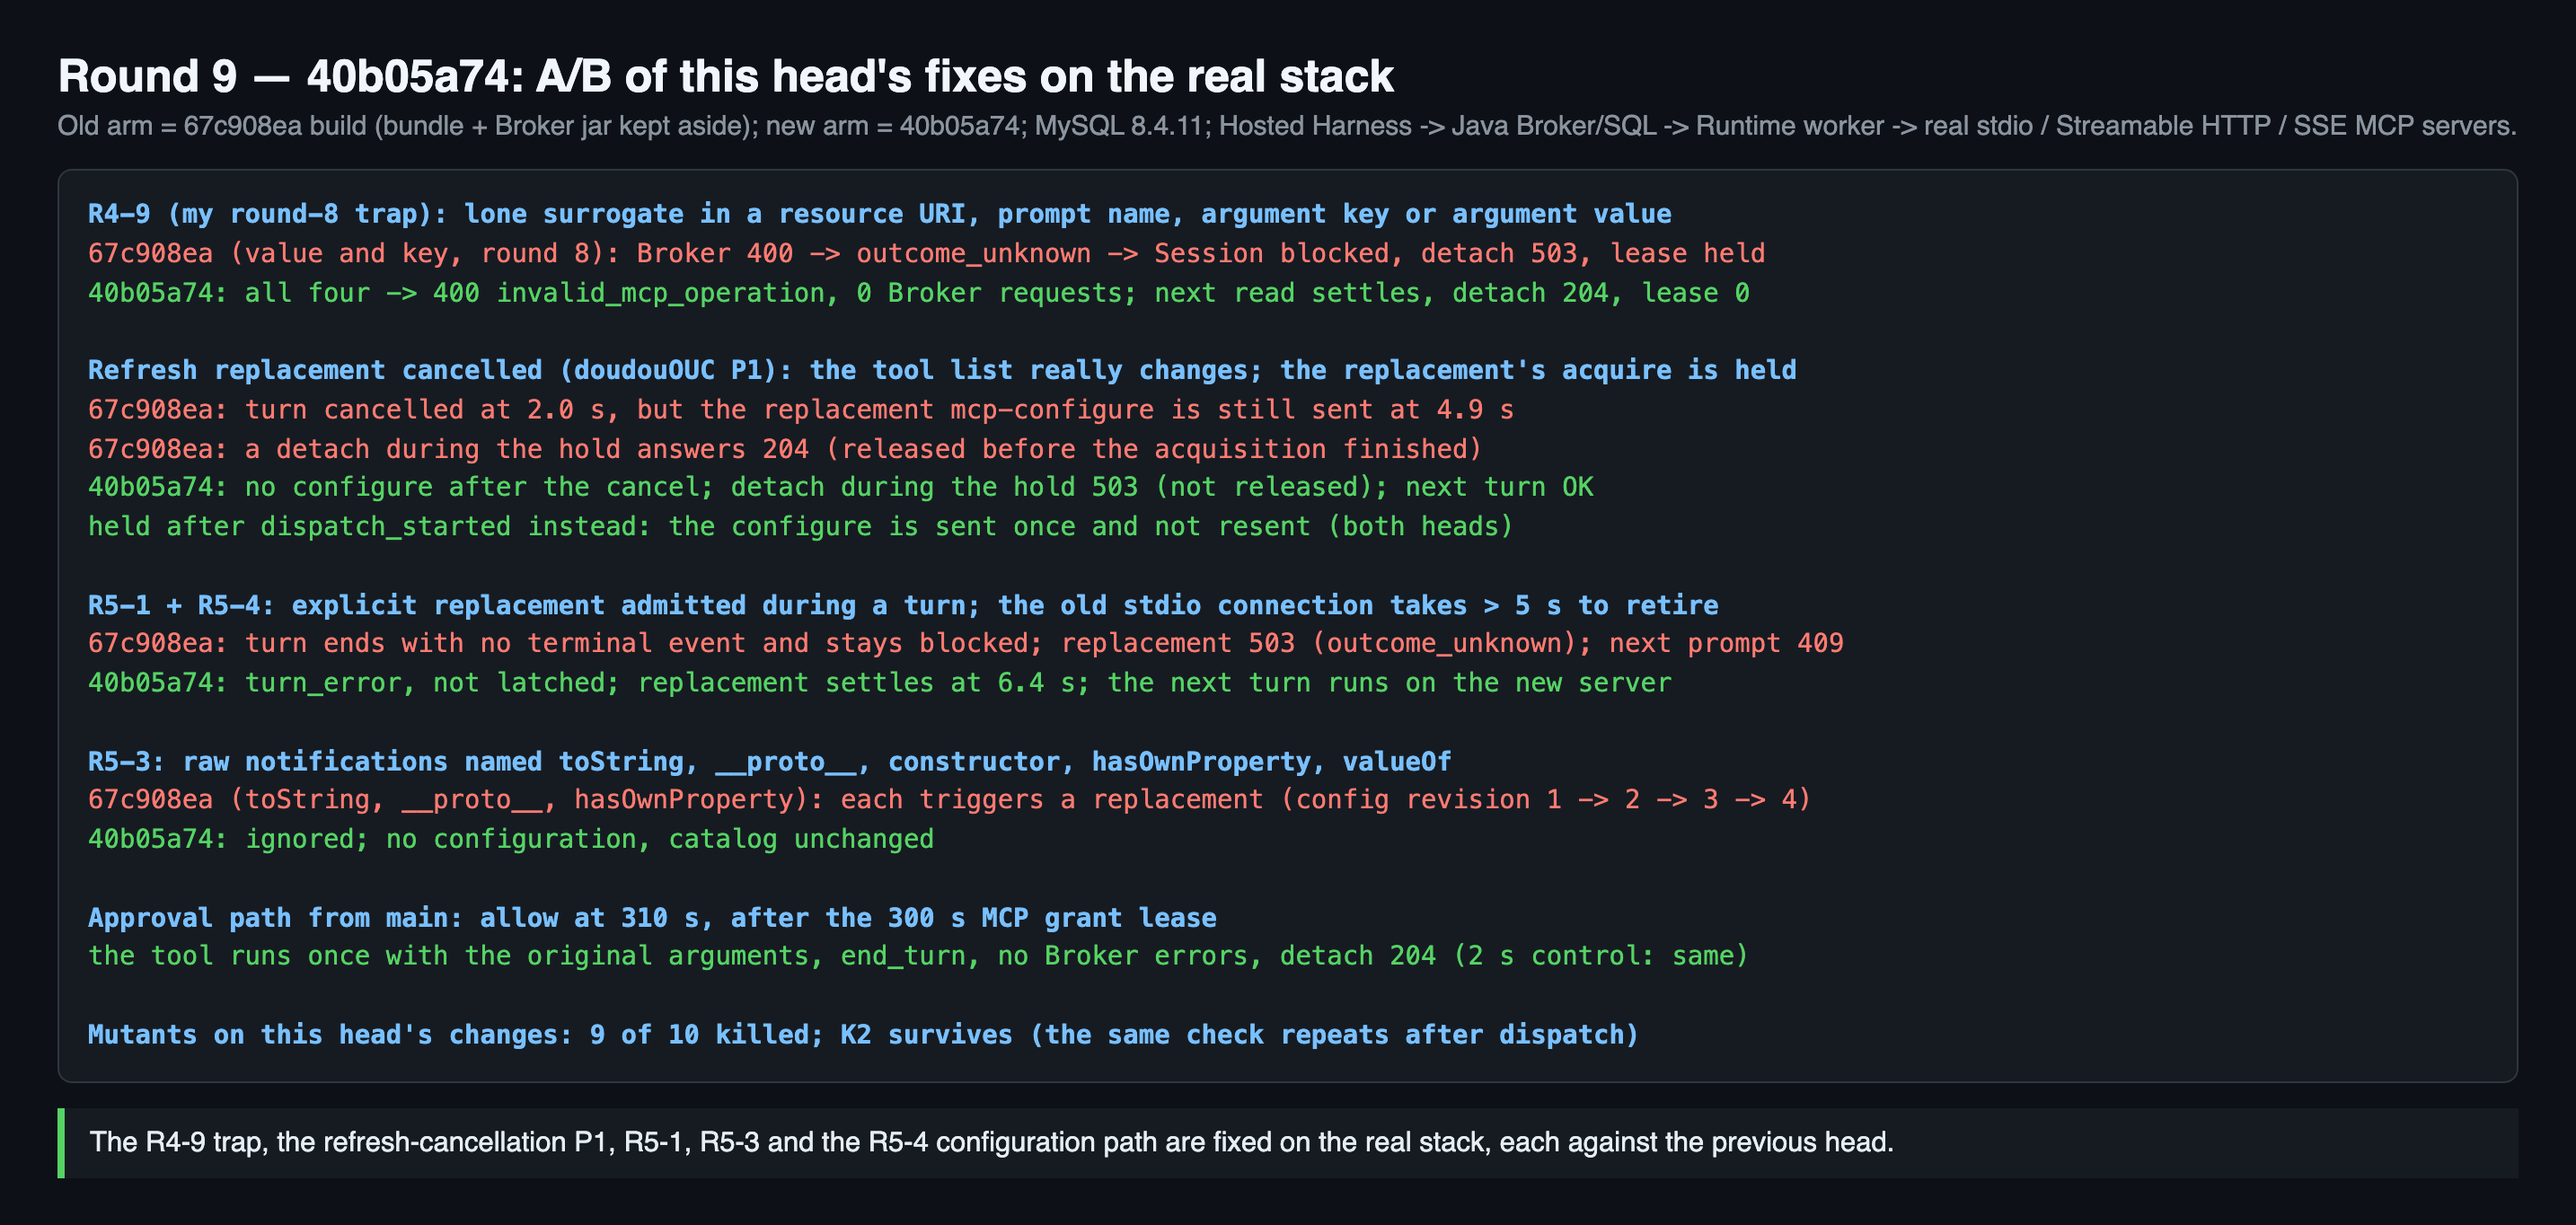
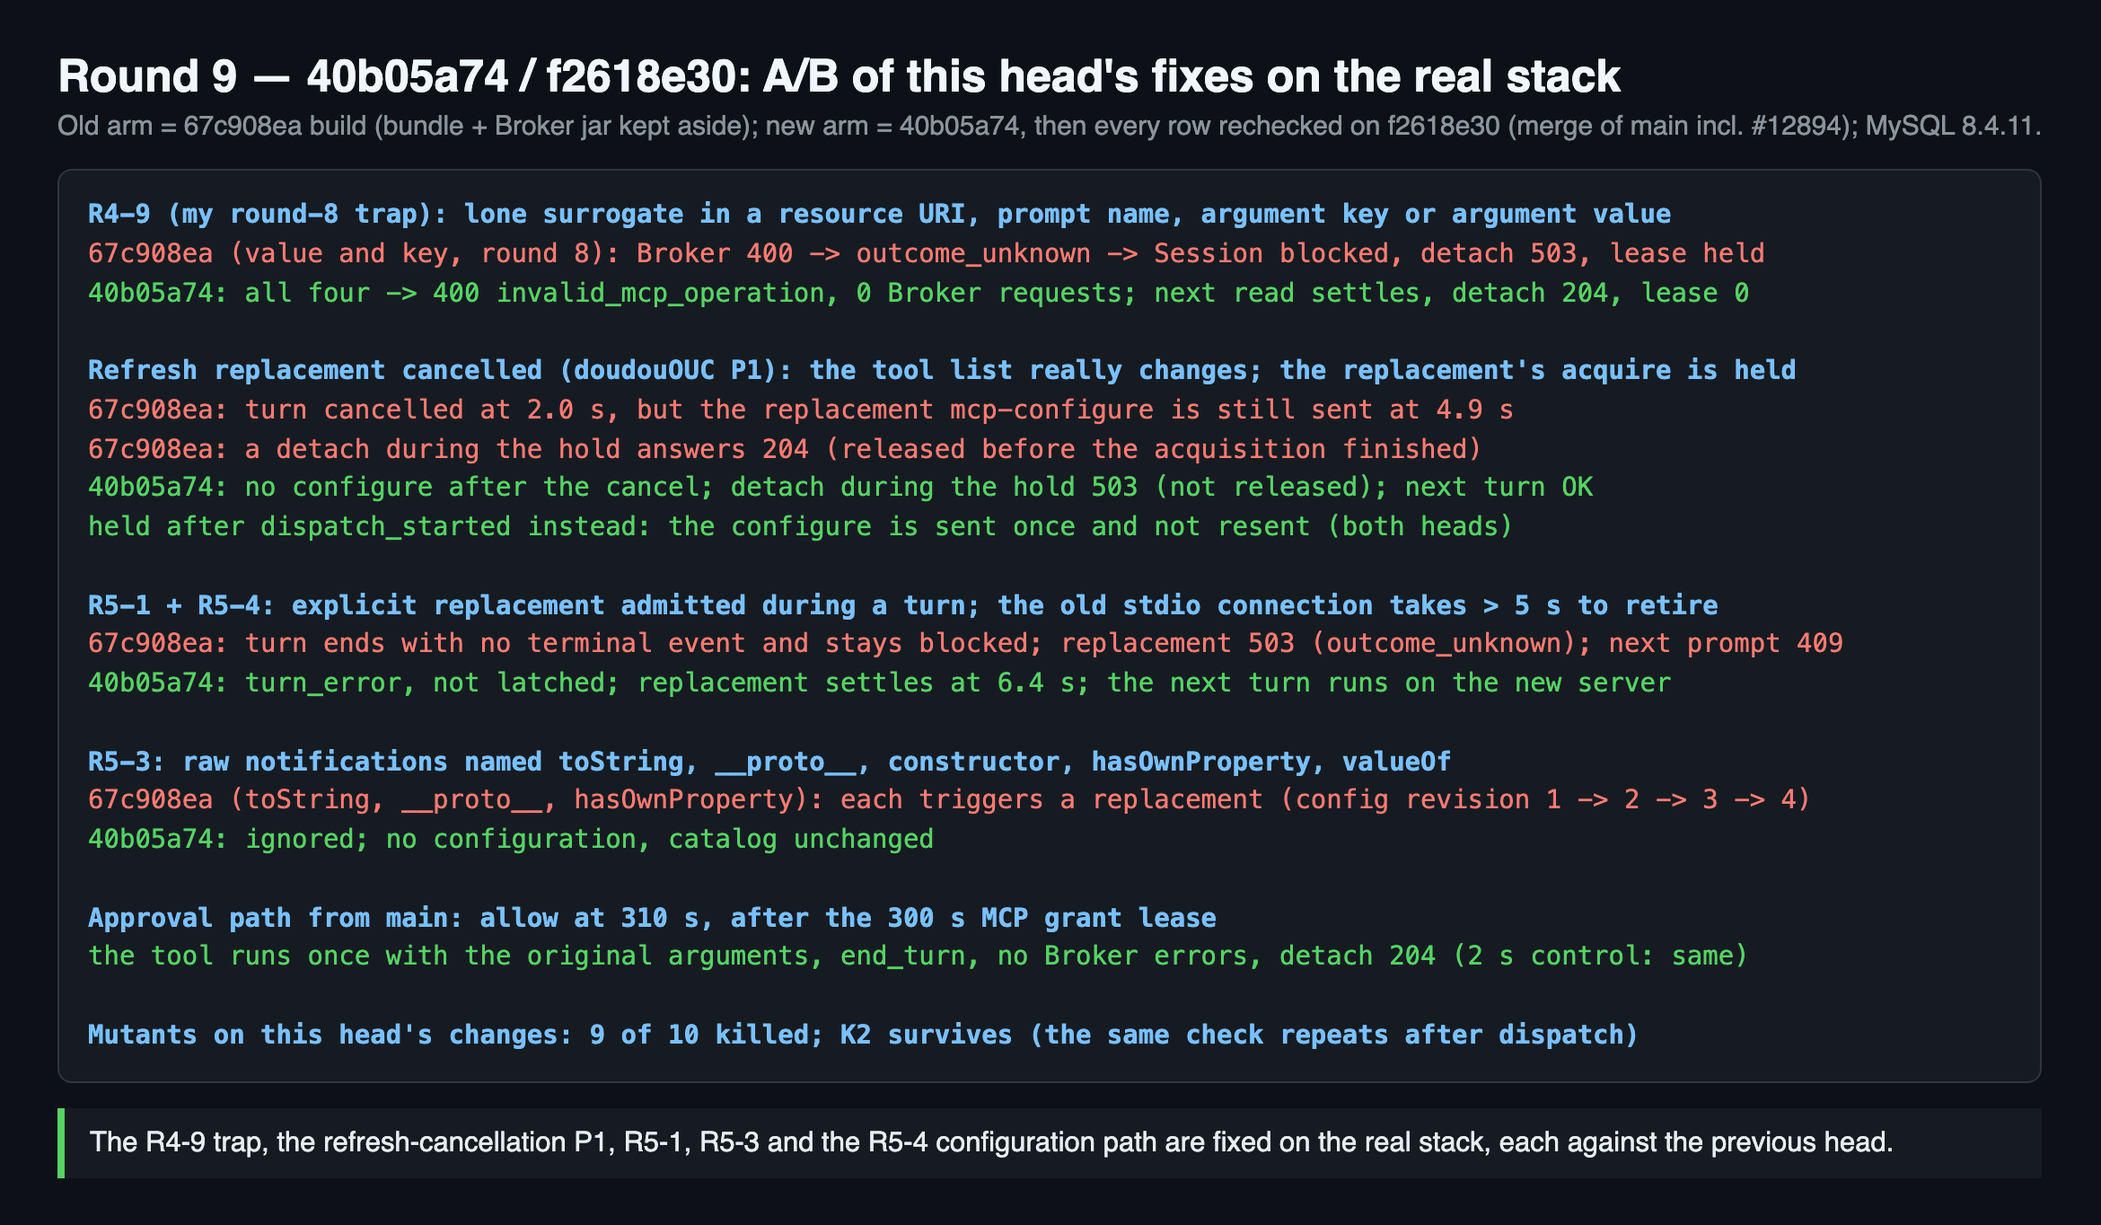
pr12946: round-9 evidence rechecked on f2618e30

diff --git a/pr12946/r9/harness/s29s-release-undelivered-single.ts b/pr12946/r9/harness/s29s-release-undelivered-single.ts
@@ -1,0 +1,37 @@
+// S29 (round 9, R5-2): the first mcp-release never reaches the Runtime
+// (the Broker proxy answers 503 without forwarding). Can detach recover?
+import {
+  Harness, brokerCalls, faults, fakeToolCall, leaseHeld, mcpProfile, newSession,
+  result, setScript, startBrokerProxy, startModel,
+} from './rig12946-lib.js';
+
+const W = Number(process.env['S29_WS'] ?? 2);
+const model = await startModel();
+const proxy = await startBrokerProxy();
+const h = await new Harness().start(model.baseUrl, proxy.url);
+const out: Record<string, unknown> = { W, arm: process.env['ARM'] };
+const code = (r: { status: number; json: any }) => `${r.status}:${r.json?.code ?? ''}`;
+const kinds = (from: number) => brokerCalls.slice(from).map((c) => `${c.kind ?? c.url.split('/').pop()?.replace(/[0-9a-f-]{20,}/g, '<id>')}:${c.status}${c.fault ? '!' + c.fault : ''}${c.status >= 400 ? ' ' + (c.response ?? '').slice(0, 160) : ''}`);
+try {
+  setScript((ctx) => {
+    if (!ctx.receipts.length) return { toolCalls: [fakeToolCall(ctx.tools.find((t) => t.description?.includes('side effect on server http.'))!.name, { tag: ctx.marker }, 'e')] };
+    return { content: 'DONE' };
+  });
+  const s = await newSession(W);
+  await h.open(s.sessionId, s.workspaceId, mcpProfile(W, (process.env['S29_SERVERS'] ?? 'remote').split(',').map((x) => [x] as [string])));
+  out['servers'] = process.env['S29_SERVERS'] ?? 'remote';
+  out['warm'] = (await h.prompt(s.sessionId, 'WARM_1')).terminal?.map((x: any) => x.stopReason ?? x.type);
+  faults.push({ label: 'release-503', action: '503', remaining: 1, match: (_u, b) => b.includes('"mcp-release"') });
+  for (let i = 1; i <= 3; i++) {
+    const k = brokerCalls.length;
+    const d = await h.call(s.sessionId, `/session/${s.sessionId}/detach`, {});
+    out[`detach${i}`] = { status: code(d), broker: kinds(k) };
+    if (d.status === 204 || d.status === 404) break;
+  }
+  out['lease'] = await leaseHeld(W);
+} finally {
+  result('s29', out);
+  await h.close();
+  await model.close();
+  await proxy.close();
+}
